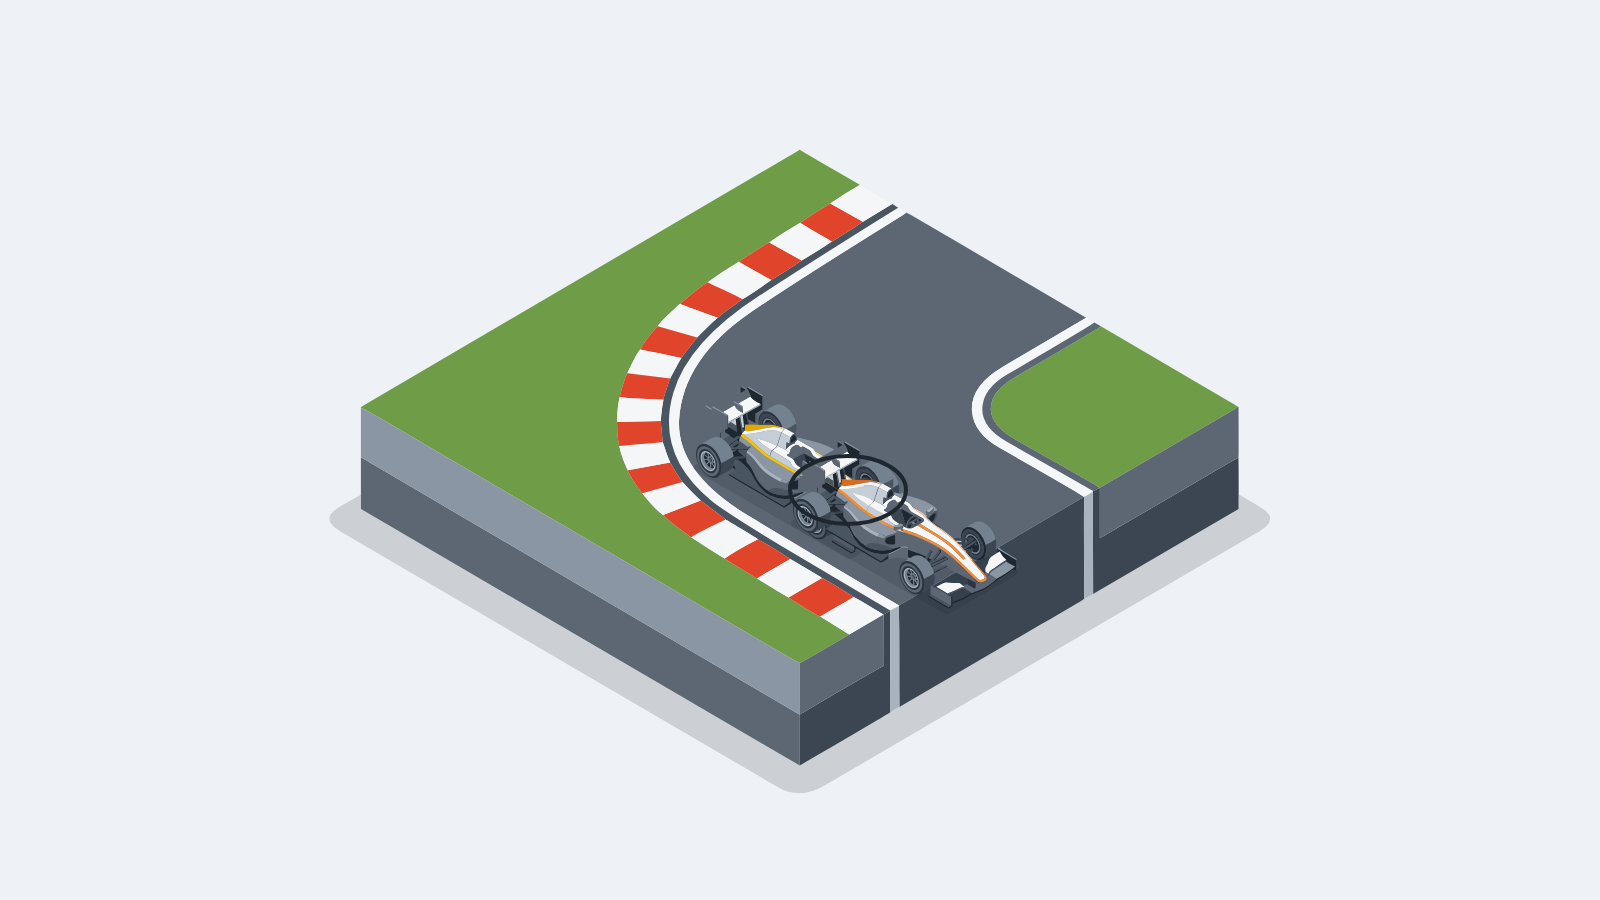
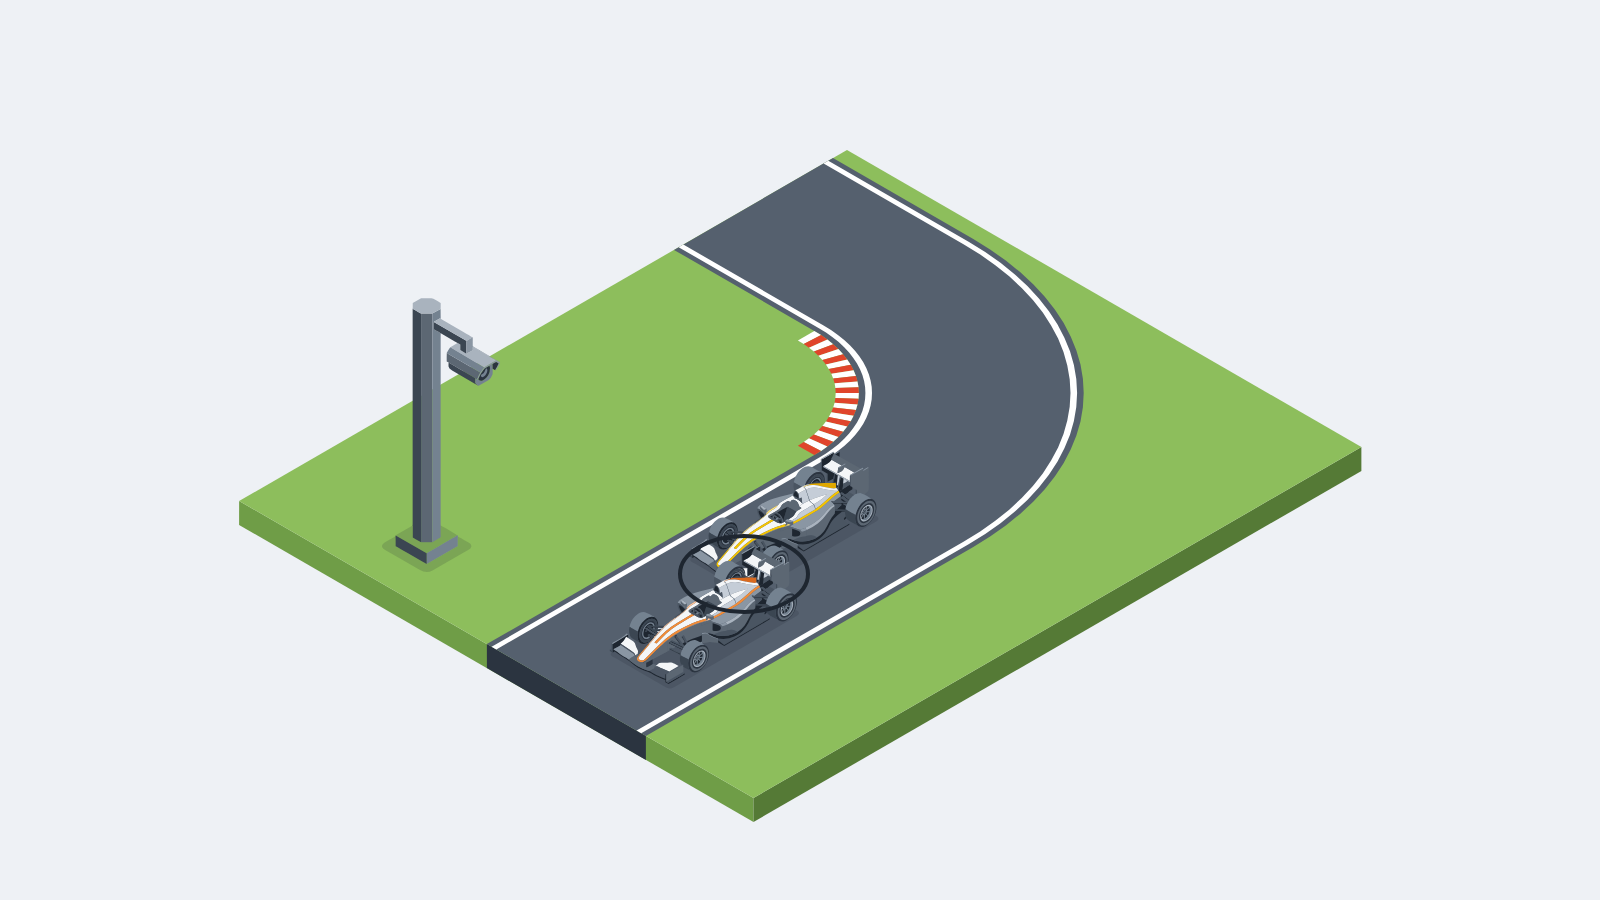
docs: a scene gallery, one scene per forklift site rule and four other domains
assets/scenes/ gains seven scenes and a rebuilt race scene: the four forklift-site-rules breaches (walkway, no hi-vis in a truck zone, reversing without a spotter, racking contact), and construction, factory lockout, road junction and airport ramp breaches.
The race scene's track is now drawn in code, so both cars sit on the road.
The README's new Scenes section shows the forklift rules grid with each rule id, and an Other domains grid with each rule source, for domains that ship no pack.
assets/NOTICE.md lists every image as all rights reserved, and PROVENANCE.md names every generated piece.
Proven by the full test suite (138 passed).

Built-With: claude-opus-5-5 via Claude Code
Meta-Models: none
Claude-Session: https://claude.ai/code/session_01NSNgmpuo7vgtCHRpR6dGDS
Built-On: 2026-10-27T16:04:23-0500

Changed region(s): [[0.125, 0.1556, 0.875, 0.9022]]

diff --git a/README.md b/README.md
@@ -28,6 +28,7 @@ The car behind runs into the car ahead on the exit of a corner
 **Contents:**
 [Built during the hackathon, and what existed before](#built-during-the-hackathon-and-what-existed-before) ·
 [How it works](#how-it-works) ·
+[Scenes](#scenes) ·
 [What was measured](#what-was-measured) ·
 [Meta models used so far](#meta-models-used-so-far) ·
 [How to run](#how-to-run) ·
@@ -48,7 +49,7 @@ The car behind runs into the car ahead on the exit of a corner
 - The `forklift-site-rules` pack, four rules a site sets for itself.
 - Eleven measured experiments, logged under `experiments/`: eight on the Meta models and three smoke tests run on scripts alone.
 - The forklift scan route design note (`docs/forklift-scan-route.md`).
-- The two scenes in `assets/scenes/`.
+- The nine scenes in `assets/scenes/`.
 - The licence files `LICENSE` and `NOTICE`, and `assets/NOTICE.md`.
 
 <!-- tally:start -->
@@ -143,6 +144,72 @@ In design: the steward model pipeline that reads footage and writes the rulings.
 It is being designed from the measurements below, and no code in this repo calls a model yet.
 
 ---
+
+## Scenes
+
+### The forklift site rules
+
+One scene for each rule in the `forklift-site-rules` pack.
+
+<table>
+<tr>
+<td width="50%" valign="top">
+<img src="assets/scenes/warehouse.png" alt="<code>pedestrian_separation</code>: a forklift's forks reach a worker at the edge of a walkway" width="100%">
+<br>
+<code>pedestrian_separation</code>: a forklift's forks reach a worker at the edge of a walkway
+</td>
+<td width="50%" valign="top">
+<img src="assets/scenes/no-hi-vis-in-truck-zone.png" alt="<code>hi_vis_in_truck_zone</code>: a worker without a vest walks where a forklift works" width="100%">
+<br>
+<code>hi_vis_in_truck_zone</code>: a worker without a vest walks where a forklift works
+</td>
+</tr>
+<tr>
+<td width="50%" valign="top">
+<img src="assets/scenes/reversing-without-spotter.png" alt="<code>spotter_when_reversing</code>: a forklift backs towards a worker nobody is watching for" width="100%">
+<br>
+<code>spotter_when_reversing</code>: a forklift backs towards a worker nobody is watching for
+</td>
+<td width="50%" valign="top">
+<img src="assets/scenes/racking-contact.png" alt="<code>structure_contact</code>: a forklift backs its counterweight into a rack upright" width="100%">
+<br>
+<code>structure_contact</code>: a forklift backs its counterweight into a rack upright
+</td>
+</tr>
+</table>
+
+### Other domains
+
+A rules pack is a folder of markdown rules, so the same judge reads any written rule set.
+These are four more places where written rules meet camera footage.
+faultline ships no packs for them.
+
+<table>
+<tr>
+<td width="50%" valign="top">
+<img src="assets/scenes/under-suspended-load.png" alt="Construction, OSHA 29 CFR 1926.1425: a worker stands under a crane's load" width="100%">
+<br>
+Construction, OSHA 29 CFR 1926.1425: a worker stands under a crane's load
+</td>
+<td width="50%" valign="top">
+<img src="assets/scenes/guard-open.png" alt="Factory, OSHA 29 CFR 1910.147: an operator reaches into a press with its guard open and no lockout" width="100%">
+<br>
+Factory, OSHA 29 CFR 1910.147: an operator reaches into a press with its guard open and no lockout
+</td>
+</tr>
+<tr>
+<td width="50%" valign="top">
+<img src="assets/scenes/red-light.png" alt="Roads, a state traffic code: a car runs a red light into a cyclist crossing on green" width="100%">
+<br>
+Roads, a state traffic code: a car runs a red light into a cyclist crossing on green
+</td>
+<td width="50%" valign="top">
+<img src="assets/scenes/wing-tip-clearance.png" alt="Airport ramps, the airport's ramp rules: a baggage tug drives inside the wing-tip clearance zone" width="100%">
+<br>
+Airport ramps, the airport's ramp rules: a baggage tug drives inside the wing-tip clearance zone
+</td>
+</tr>
+</table>
 
 ## What was measured
 

diff --git a/PROVENANCE.md b/PROVENANCE.md
@@ -42,9 +42,9 @@ The trailers record the models the build session declared.
 - The `forklift-site-rules` pack, four rules a site sets for itself: high-visibility clothing in a truck zone, a spotter when reversing, a set distance from people on foot, and no contact with racking or stock.
 - Eleven measured experiments, logged under `experiments/`, 26 and 27 Oct: eight on the Meta models and three smoke tests run on scripts alone.
 - The forklift scan route design note (`docs/forklift-scan-route.md`), 27 Oct.
-- The two scenes in `assets/scenes/`, 27 Oct.
-  Each piece in them (forklift, worker, rack bay, pallet, race car, track corner) was generated on Higgsfield with Nano Banana 2, then vectorized with Ideogram Vector.
-  The pieces were cleaned and composed into the scenes by private scripts written the same day.
+- The nine scenes in `assets/scenes/`, 27 Oct.
+  Each piece in them was generated on Higgsfield with Nano Banana 2, then vectorized with Ideogram Vector: forklift, worker, rack bay, pallet, race car, CCTV pole, dock door, crane hook with load, scaffold, worker in a harness, barrier set, press with a guard, lockout station, operator, traffic light, saloon car, cyclist, aircraft, baggage tug and marshaller.
+  The pieces were cleaned and composed into the scenes by private scripts written the same day, which also draw the floors, the track and the junction.
 - The licence files `LICENSE` and `NOTICE`, and `assets/NOTICE.md`, 27 Oct.
 
 ## Models used

diff --git a/assets/NOTICE.md b/assets/NOTICE.md
@@ -8,3 +8,10 @@ You may not copy, modify or reuse them without written permission from Brock Str
 
 - `scenes/warehouse.png`: a forklift's forks reach a worker at the edge of a walkway.
 - `scenes/race.png`: the car behind runs into the car ahead on the exit of a corner.
+- `scenes/no-hi-vis-in-truck-zone.png`: a worker without a vest walks where a forklift works.
+- `scenes/reversing-without-spotter.png`: a forklift backs towards a worker nobody is watching for.
+- `scenes/racking-contact.png`: a forklift backs its counterweight into a rack upright.
+- `scenes/under-suspended-load.png`: a worker stands under a crane's load.
+- `scenes/guard-open.png`: an operator reaches into a press with its guard open.
+- `scenes/red-light.png`: a car runs a red light into a cyclist crossing on green.
+- `scenes/wing-tip-clearance.png`: a baggage tug drives inside the wing-tip clearance zone.
